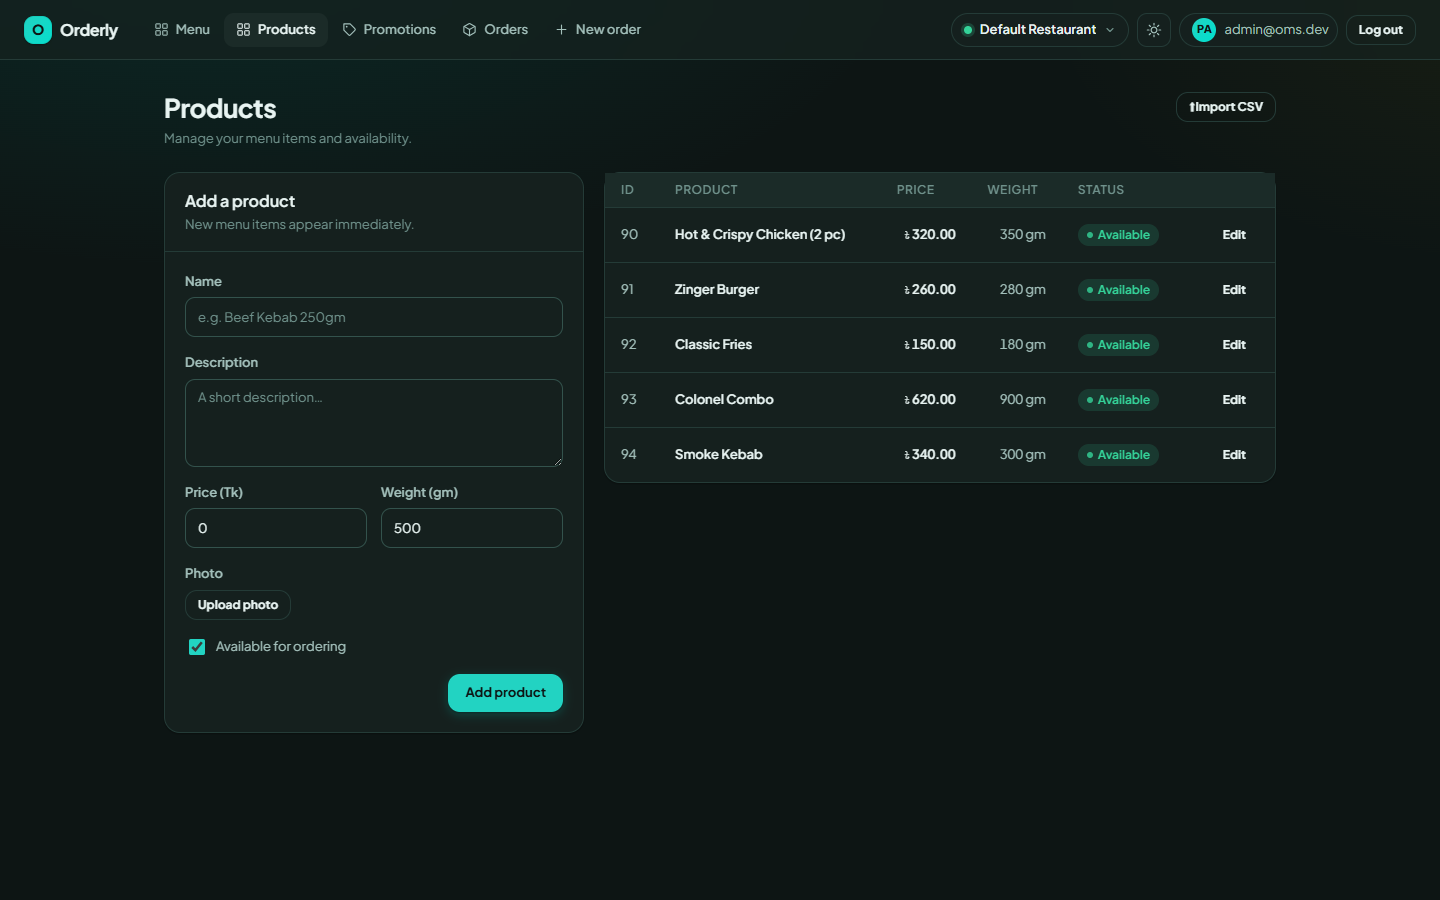
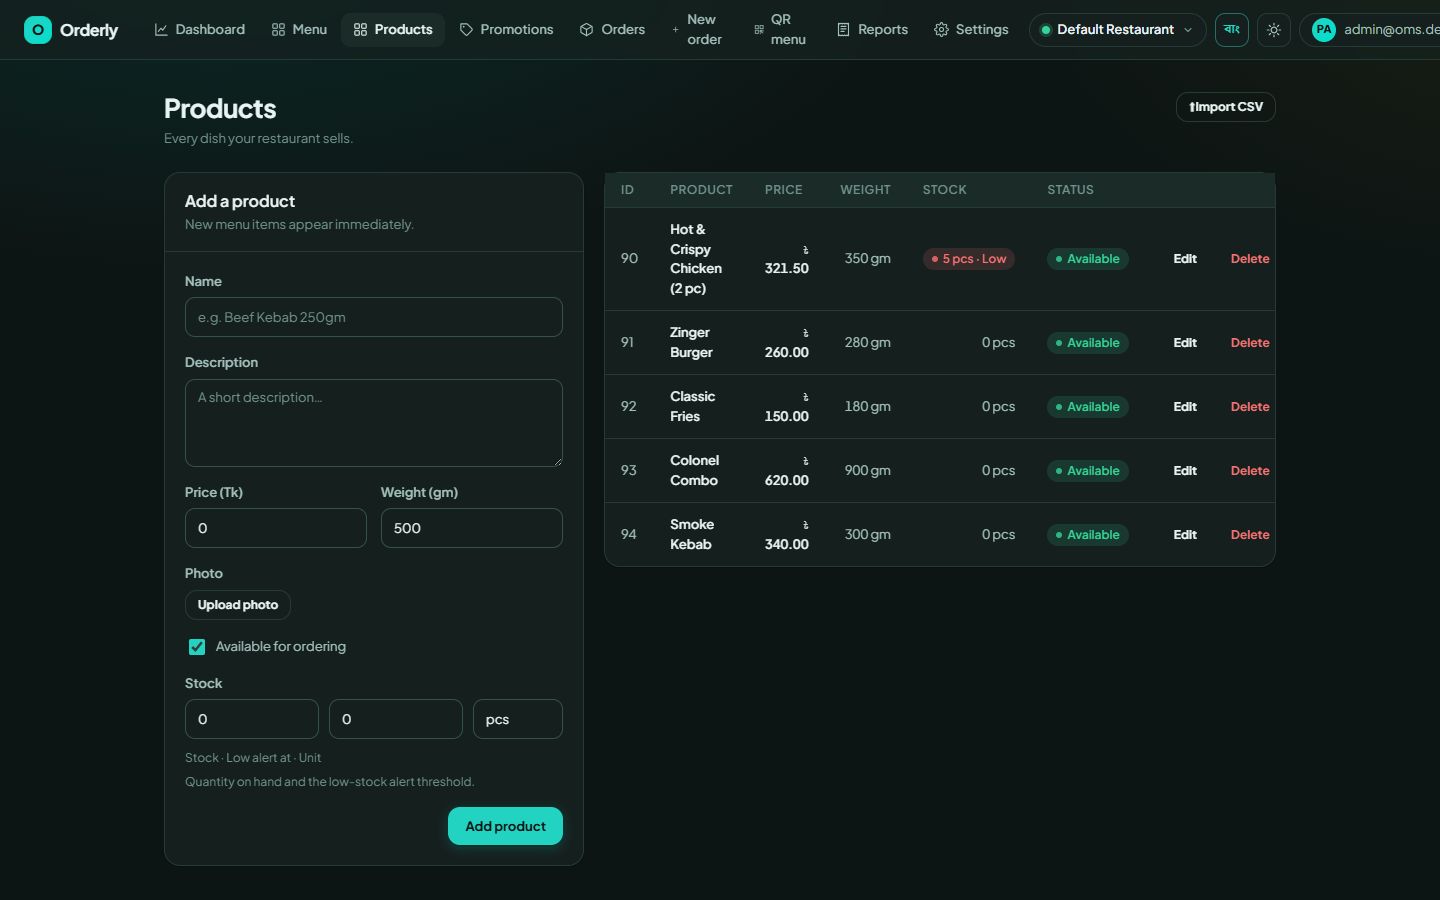
docs: refresh README screenshots with the current Phase 5/6 UI
Re-captures every page from the live app (landing, storefront, login,
products light/dark) and adds the newest views — dashboard with the
closeout trend + 3-day forecast + month-over-month, reports with the
VAT compliance section, QR table menu, and the customer tracking page.
The capture script now logs in as the seeded admin and covers the full
page grid; new shots are full-page where the content runs below the
fold.

🤖 Generated with Codebuff

diff --git a/README.md b/README.md
@@ -152,16 +152,20 @@ Customer storefront checkout (cart → order) · online payment **split payments
 
 ## 📸 Screenshots
 
-> Live captures from the running app (Deliveroo-inspired teal theme). Re-capture with `cd frontend && node scripts/screenshots.mjs` while the dev servers are up.
+> Live captures from the running app (Deliveroo-inspired teal theme). Re-capture anytime with `cd frontend && node scripts/screenshots.mjs` while the dev servers are up — the script logs in as the seeded admin and captures every page below.
 
 | | |
 |---|---|
-| **Public storefront** — live menu demo at `/m/:slug` | **Login — dark mode** |
-| ![Public storefront](docs/screenshots/public-menu-light.png) | ![Login dark](docs/screenshots/login-dark.png) |
+| **Landing page** — CRAV-style hero, full-page | **Public storefront** — live menu demo at `/m/:slug` |
+| ![Landing](docs/screenshots/landing-light.png) | ![Public storefront](docs/screenshots/public-menu-light.png) |
+| **Dashboard** — closeout trend + 3-day forecast + month-over-month | **Reports** — daily closeout + VAT compliance (NBR-ready) |
+| ![Dashboard](docs/screenshots/dashboard-light.png) | ![Reports](docs/screenshots/reports-light.png) |
+| **QR table menu** — printable table codes | **Customer tracking** — order no + phone |
+| ![QR menu](docs/screenshots/qr-menu-light.png) | ![Tracking](docs/screenshots/track-light.png) |
+| **Login — light mode** | **Login — dark mode** |
+| ![Login light](docs/screenshots/login-light.png) | ![Login dark](docs/screenshots/login-dark.png) |
 | **Products — light mode** | **Products — dark mode** |
 | ![Products light](docs/screenshots/products-light.png) | ![Products dark](docs/screenshots/products-dark.png) |
-| **Login — light mode** | |
-| ![Login light](docs/screenshots/login-light.png) | |
 
 ---
 
